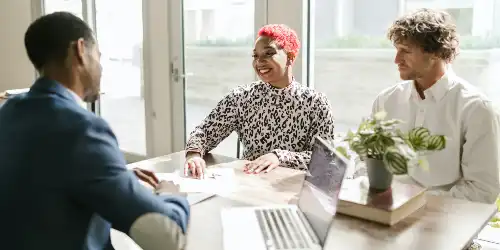
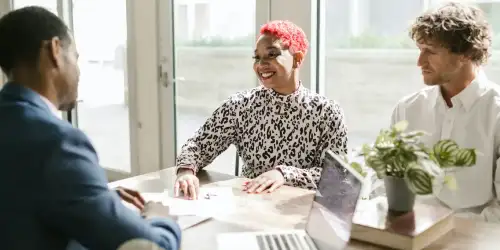
added responsive images for my chamber home page

diff --git a/chamber/index.html b/chamber/index.html
@@ -21,12 +21,13 @@
     </head>
     <body>    
         <header>
-            <div class="chamber-logo">
+            <div class="logo">
                 <picture>
-                    <img src="images/chamber-logo.webp" alt="Inglewood Chamber of Commerce Logo" width="500" height="450">
+                    <source srcset="images/chamber-logo.webp" media="(max-width: 200px)">
+                    <img src="images/chamber-logo-large.webp" alt="Inglewood Chamber of Commerce Logo" width="300" height="250">
                 </picture>
             </div>
-            <h1>Inglewood <br>Chamber of Commerce</h1>
+            <h1>Inglewood <br> Chamber of Commerce</h1>
         </header>
         <a id="menu" href="#"></a>
             <nav class="navigation">
@@ -42,11 +43,11 @@
             <div class="hero-card">
                 <picture>
                     <source srcset="images/chamber-hero-small.webp" media="(max-width: 500px)">
-                    <source srcset="images/chamber-hero-medium.webp" media="(max-width: 1000px)">
-                    <img src="images/chamber-hero-large.webp" alt="Having a meeting" width="2" height="1">
+                    <source srcset="images/chamber-hero-medium.webp" media="(max-width: 800px)">
+                    <img src="images/chamber-hero-large.webp" alt="Having a meeting" width="1300" height="750">
                 </picture>
-                <div class="herobutton">
-                    <button>Join the Chamber</button>
+                <div class="hero-text">
+                    <p>Join the Chamber</p>
                 </div>
             </div> 
             <section class="card">
@@ -56,7 +57,11 @@
             </section>
             <section class="card">
                 <h2>Weather</h2>
-                <p>Cloudy</p>
+                <div id="weather">
+                    <p>Temperature: <span id="temperature">50</span>°F</p>
+                    <p>Wind Speed: <span id="windspeed">5</span> mph</p>
+                    <p>Wind Chill: <span id="windchill"></span>°F</p>
+                </div>
             </section>
 
             <h2>Member Spotlight</h2>
@@ -102,13 +107,13 @@
             </section>
             <div class="social">
                 <a href="https://facebook.com" target="_blank">
-                    <img src="images/facebook.webp" alt="fb icon">
+                    <img srcset="images/facebook.webp" alt="fb icon" width="64" height="64">
                 </a>
                 <a href="https://twitter.com" target="_blank">
-                    <img src="images/twitter.webp" alt="twitter icon">
+                    <img srcset="images/twitter.webp" alt="twitter icon" width="64" height="64">
                 </a>
                 <a href="https://instagram.com" target="_blank">
-                    <img src="images/instagram.webp" alt="instagram icon">
+                    <img srcset="images/instagram.webp" alt="instagram icon" width="64" height="64">
                 </a>
             </div>
             <p>&copy;<span id="year"></span> Inglewood Chamber | Aster Paredes Morales | WDD 230 Project

diff --git a/chamber/styles/base.css b/chamber/styles/base.css
@@ -31,26 +31,26 @@ header, footer {
 
 header {
     display: flex;
+    padding: 1rem;
+    position: relative;
 }
 
-.chamber-logo img {
-    width: 25%;
+.logo img {
+    width: 35%;
     height: auto;
-    object-fit: cover;
-    border-radius: 100%;
-    padding: 1rem;
+    border-radius: 50%;
 }
 
 h1 {
-    position: absolute;
     font-size: 20px;
-    padding: .5rem;
-    top: .10rem;
+    text-align: left;
+    padding-left: 10px;
+    position: absolute;
+    top: 1rem;
     left: 8rem;
 }
-
 h1::first-line {
-    font-size: 40px;
+    font-size: 30px;
 }
 
 h1, h2, h3, footer {
@@ -64,15 +64,14 @@ nav {
 }
 
 #menu {
-    font-size: 3rem;
-    font-weight: 500;
+    font-size: 2rem;
     text-decoration: none;
-    padding: .5rem;
+    padding: .3rem;
     border: 0;
     background: none;
     color: var(--accent1-color);
     position: absolute;
-    top: .5rem;
+    top: 1rem;
     right: 1rem;
 }
 
@@ -118,15 +117,15 @@ nav {
     position: absolute;
 	top: 1rem;
 	right: 3rem;
-	font-size: 2rem;
+	font-size: 1.75rem;
 	cursor: pointer;
-    padding: 1rem;
+    padding: .5rem;
     background-color: var(--primary-color);
     color: var(--secondary-color);
 }
 
 main {
-    max-width: 1300px;
+    max-width: 1400px;
     margin: auto;
     display: grid;
     grid-template-columns: 1fr;
@@ -136,28 +135,33 @@ main {
     text-align: center;
 }
 
+.hero-card {
+    position: relative;
+}
+
 .hero-card img{
     width: 100%;
     height: auto;
     object-fit: cover;
 }
 
-button {
-    position: relative;
-    top: -5rem;
-    right: -4rem;
-    background-color: var(--secondary-color);
+.hero-text {
+    position: absolute;
+    top: 5rem;
+    left: 10rem;
+    background:  white;
     color: var(--accent1-color);
-    border: 1px solid var(--accent2-color);
-    font-size: 18px;
-    padding: 15px 15px;
-    border-radius: 5px;
-    text-align: center;
+    font-size: 30px;
+    padding: .5rem;
+    opacity: 0.80;
 }
 
-button:hover {
-    background-color: var(--accent1-color);
-    color: var(--secondary-color);
+.hero-text p {
+    margin: 0;
+    padding: .25rem;
+    font-weight: 500;
+    font-size: 1rem;
+    font-family: var(--paragraph-font);
 }
 
 .card {
@@ -185,15 +189,15 @@ footer div {
 }
 
 footer .social img {
-    width: 40px;
+    width: 10%;
     height: auto;
-    border-radius: 50px;
+    border-radius: 100%;
 }
 
 footer img {
-    width: 20%;
+    width: 50%;
     height: auto;
-    border-radius: 100%;
+    border-radius: 50%;
     justify-self: center;
     align-self: center;
     padding: .2rem;

diff --git a/index.html b/index.html
@@ -22,8 +22,8 @@
     <header>
         <div class="profile-picture">
             <picture>
-                <source media="(max-width: 100px)" srcset="images/profile-mobile.webp" media="(max-width: 100px)">
-                <img src="images/profile-large.webp" alt="Profile picture" width="2" height="1">
+                <source srcset="images/profile-mobile.webp" media="(max-width: 100px)">
+                <img src="images/profile-large.webp" alt="Profile picture" width="150" height="200">
             </picture>
         </div>
         <h1>Aster Paredes Morales</h1>
@@ -42,7 +42,7 @@
         <div class="hero">
             <picture>
                 <source srcset="images/san-diego-temple-mobile.webp" media="(max-width: 400px)">
-                <img src="images/san-diego-temple.webp" alt="San Diego Temple" width="2" height="1">
+                <img src="images/san-diego-temple.webp" alt="San Diego Temple" width="960" height="400">
             </picture>
             <div class="herotext">
                 <p>San Diego Temple</p>

diff --git a/chamber/styles/larger.css b/chamber/styles/larger.css
@@ -1,14 +1,13 @@
 @media screen and (min-width: 1300px) {
     header h1 {
         font-size: 30px;
-        top: 1rem;
+        top: -1rem;
         left: 10rem;
     }
-
     h1::first-line {
         font-size: 50px;
     }
-    
+
     #menu {
         display: none;
     }
@@ -22,8 +21,23 @@
         flex: 1 1 100%;
     }
 
+    #mode {
+        position: absolute;
+        top: 1rem;
+        right: 15rem;
+    }
+
     main {
         grid-template-columns: 1fr 1fr 1fr;
+    }
+
+    .hero-text {
+        top: 20rem;
+        left: 20rem;
+    }
+
+    .hero-text p {
+        font-size: 2rem;
     }
 
     main .hero-card {
@@ -51,5 +65,13 @@
     }
     main .card:nth-child(7) {
         grid-column: 3 / 4;
+    }
+
+    footer .social img {
+        width: 5%;
+    }
+    
+    footer img {
+        width: 30%;
     }
 }

diff --git a/chamber/scripts/windchill.js b/chamber/scripts/windchill.js
@@ -1,0 +1,18 @@
+
+function initialize() {
+    const temperature = parseFloat(document.querySelector('#temperature').innerHTML);
+    const speed = parseFloat(document.querySelector('#windspeed').innerHTML);
+    
+    if (temperature <= 50 && speed > 3.0) {
+        const windChill = computeWindChill(temperature, speed);
+        document.querySelector('#windchill').innerHTML = windChill.toFixed(2);
+    }else{
+        document.querySelector('#windchill').innerHTML = "N/A";
+    }
+}
+
+function computeWindChill(temperature, speed) {
+    return 35.74 + (0.6215 * temperature) - (35.75 * Math.pow(speed, 0.16)) + (0.4275 * temperature * Math.pow(speed, 0.16));
+}
+
+initialize();
